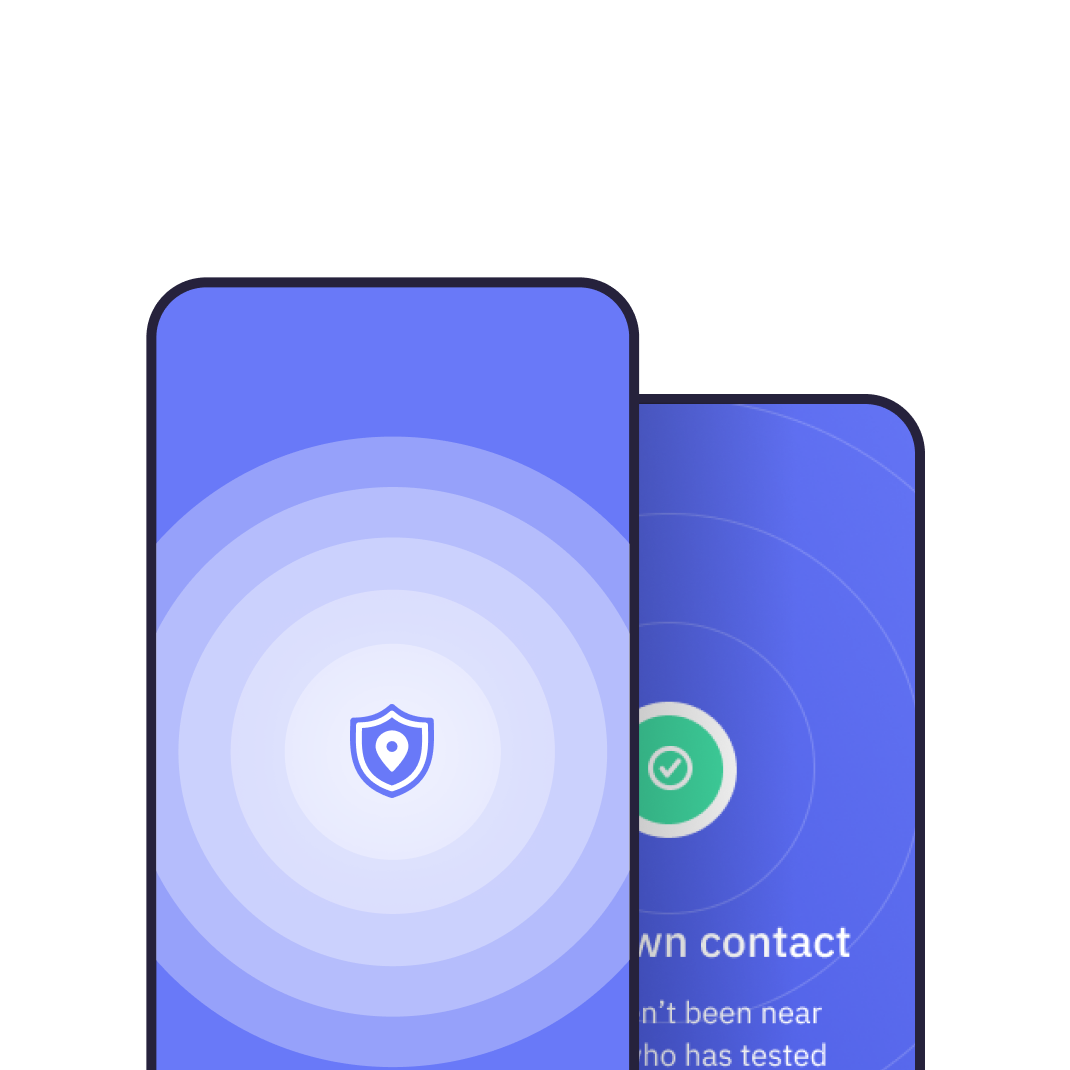
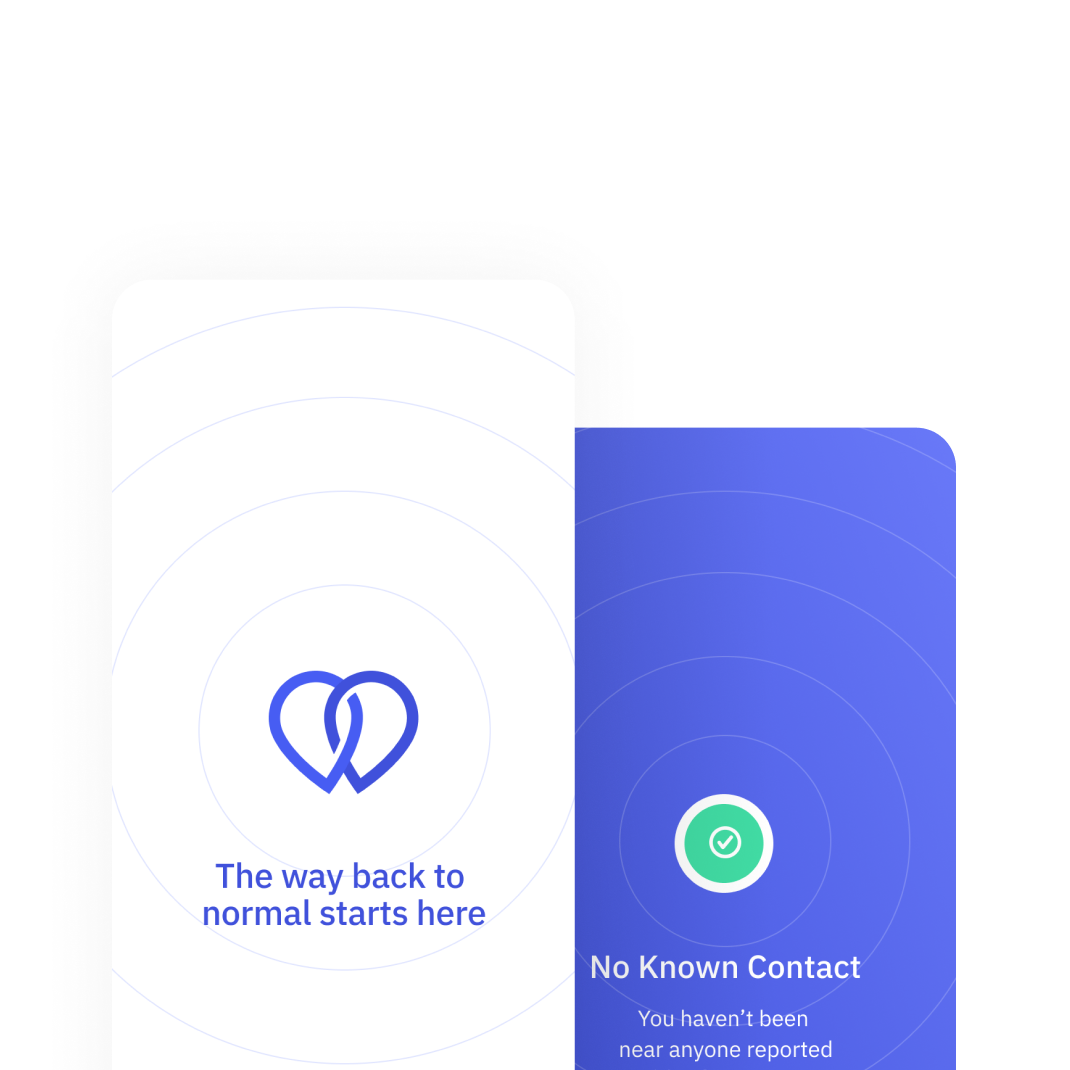
style, add real content

diff --git a/src/scss/sections/_why-safe-paths.scss b/src/scss/sections/_why-safe-paths.scss
@@ -19,7 +19,7 @@ $fade-size-lg: $sp-xxl * 1.5;
     &:not(:last-child) {
       &::before {
         @include absolute(50% x x 50%);
-        border-bottom: 1px solid $color-spot;
+        border-top: 2px solid $color-bg-dark;
         content: '';
         display: inline-block;
         width: 100%;
@@ -51,7 +51,7 @@ $fade-size-lg: $sp-xxl * 1.5;
 
 .wsp-list-item.wsp-list-item {
   @include padding($sp-lg x x);
-  background-color: $color-white;
+  background-color: $color-bg-light;
   border-radius: $br-sm;
   counter-increment: step;
   list-style: none;
@@ -68,14 +68,15 @@ $fade-size-lg: $sp-xxl * 1.5;
       @include absolute(100% x x 0);
       @include size(100%, $fade-size);
       background-image: linear-gradient(to bottom,
-      $color-white 10%,
-      transparentize($color-white, 1));
+      $color-bg-light 10%,
+      transparentize($color-bg-light, 1));
       content: '';
       display: block;
     }
   }
 
   @include mq($xl) {
+    @include padding(x $sp-lg);
     margin-bottom: $fade-size-lg;
 
     &::after {
@@ -98,6 +99,14 @@ $fade-size-lg: $sp-xxl * 1.5;
 
 .wps-list-item-content {
   @include padding($sp-lg);
+}
+
+.wsp-list-item-heading {
+  @include paragraph;
+}
+
+.wsp-list-item-deck {
+  font-size: $fs-base;
 }
 
 .wsp-screenshots {

diff --git a/src/scss/partials/_pill.scss b/src/scss/partials/_pill.scss
@@ -1,6 +1,8 @@
 .pill {
-  background-color: $color-spot;
+  background-image: $gradient-blue;
+  border-bottom: 1px solid $color-bg-light;
   border-radius: $br;
+  border-top: 1px solid $color-bg-dark;
   color: $color-bg;
 }
 
@@ -30,6 +32,7 @@
 
 .pill-side--deck {
   @include margin(0);
+  font-size: $fs-base;
 }
 
 .pill-icon {
@@ -38,7 +41,7 @@
 
   @include mq(0, $md-lg) {
     @include size(100%, 0);
-    border-top: 2px solid $color-white;
+    border-top: 2px solid $color-bg;
 
     &::after {
       @include absolute(0 x x 50%);
@@ -51,7 +54,7 @@
 
   @include mq($md-lg) {
     @include size(0, auto);
-    border-right: 2px solid $color-white;
+    border-right: 2px solid $color-bg;
 
     &::before {
       @include relative(50% x x 50%);
@@ -76,9 +79,10 @@
 
   &::before {
     @include size($sp-xl);
-    background-color: $color-white;
+    background-color: $color-bg;
     border-radius: $br;
-    box-shadow: 0 0 0 $sp-base transparentize($color-white, 0.9);
+    box-shadow: -5px -5px 30px transparentize($color-white, 0.75),
+      5px 5px 30px transparentize(darken($color-spot, 25%), 0.5);
     content: '';
   }
 }

diff --git a/src/scss/variables.scss b/src/scss/variables.scss
@@ -5,7 +5,14 @@ $color-highlight: #ff5656;
 $color-bg: #f0f0f0;
 $color-white: #ffffff;
 $color-border: $color-base;
-$color-bg-light: mix($color-spot, $color-bg, $weight: 5%);
+$color-bg-blue: mix($color-spot, $color-bg, $weight: 5%);
+$color-bg-light: lighten($color-bg, 3%);
+$color-bg-dark: darken($color-bg, 6%);
+$box-shadow-light: transparentize($color-white, 0.25);
+$box-shadow-dark: transparentize(darken($color-bg, 20%), 0.85);
+
+// Gradients
+$gradient-blue: linear-gradient(-45deg, darken($color-spot, 2%), lighten($color-spot, 2%));
 
 // Typefaces
 $sans: Inter, sans-serif;
@@ -32,7 +39,7 @@ $fw-bold: 500;
 
 // Letter spacing
 $ls-tight: -0.045em;
-$ls-loose: 0.05em;
+$ls-loose: 0.07em;
 
 // Spacing
 $sp-base: 10px;
@@ -56,6 +63,9 @@ $border: 1px solid darken($color-bg, 10%);
 // Border radius
 $br: 999rem;
 $br-sm: 1.5rem;
+
+// Box shadow
+$box-shadow: -5px -5px 15px $box-shadow-light, 5px 5px 15px $box-shadow-dark;
 
 // Easings
 $outQuint: 0.3s cubic-bezier(0.22, 1, 0.36, 1);

diff --git a/src/pages/index.html b/src/pages/index.html
@@ -3,6 +3,7 @@ title: COVID SafePaths
 ---
 
 {% extends "@templates/layouts/base.twig" %}
+{% set callouts = site.data['callouts.yaml'] %}
 
 {% block header %}
   {% include '@templates/partials/header.twig' %}
@@ -12,8 +13,9 @@ title: COVID SafePaths
 <main>
   {% include '@templates/partials/topper.twig' %}
   <div class="home-body">
-    {% include '@templates/sections/section-callouts.twig' %}
-    {% include '@templates/sections/section-callouts.twig' with {'altLayout': true} %}
+    {% for callout in callouts %}
+      {% include '@templates/sections/section-callouts.twig' with {'altLayout': callout.altLayout} %}
+    {% endfor %}
     {% include '@templates/sections/section-how-it-works.twig' %}
     {% include '@templates/sections/section-better-together.twig' %}
     {% include '@templates/sections/section-why-safe-paths.twig' %}

diff --git a/src/scss/partials/_header.scss b/src/scss/partials/_header.scss
@@ -1,5 +1,6 @@
 .header {
-  background-color: $color-white;
+  background-color: $color-bg;
+  box-shadow: 0 5px 15px $box-shadow-dark;
   position: relative;
   z-index: 10;
 }
@@ -59,9 +60,11 @@
 
 .header-button-group {
   @include mq($sm, $md) {
-    bottom: $sp-md;
-    position: fixed;
-    width: calc(100% - (2 * #{$sp-md}));
+    @include fixed(x x 0 0);
+    @include padding($sp-md);
+    background-color: $color-bg;
+    box-shadow: 0 -5px 15px $box-shadow-light;
+    width: calc(100% - (#{$sp-md * 2}));
     z-index: 10;
   }
 

diff --git a/src/templates/partials/hiw-block.html b/src/templates/partials/hiw-block.html
@@ -1,9 +1,9 @@
 <div class="hiw-block">
   <div class="hiw-block-content">
-    <h3 class="hiw-block--heading">Save your location directly to your phone every 5 minutes</h3>
-    <p class="hiw-block--deck">Data is never shared and never leaves your personal device.</p>
+    <h3 class="hiw-block--heading">{{step.title}}</h3>
+    <p class="hiw-block--deck">{{step.deck}}</p>
   </div>
   <div class="hiw-block-art">
-    {% include '@templates/svgs/path-1.svg' %}
+    {% include step.illustration %}
   </div>
 </div>

diff --git a/src/scss/partials/_list.scss b/src/scss/partials/_list.scss
@@ -27,7 +27,7 @@
 
 .list-content {
   @include padding($sp-md);
-  background-color: $color-white;
+  background-color: $color-bg-light;
   border-radius: $br-sm;
   width: 100%;
 
@@ -47,8 +47,8 @@
 }
 
 .list--title {
-  @include paragraph;
-  color: $color-spot;
+  @include label;
+  font-weight: normal;
   margin-bottom: $sp-lg;
 }
 
@@ -56,6 +56,7 @@
   @include padding($sp-md x);
   @include margin(0);
   align-items: baseline;
+  color: $color-spot;
   display: flex;
 
   &:not(:last-child) {

diff --git a/src/scss/partials/_callout.scss b/src/scss/partials/_callout.scss
@@ -59,6 +59,10 @@
   @include absolute($sp-lg x x 50%);
   @include label;
   transform: translateX(-50%);
+
+  &-muted {
+    opacity: 0.5;
+  }
 }
 
 .callout--art {
@@ -74,6 +78,16 @@
   margin-bottom: $sp-base;
 }
 
+.callout--title-label {
+  @include label;
+  color: $color-spot;
+}
+
 .callout--deck {
   margin-bottom: $sp-lg;
+}
+
+.callout--button {
+  @include margin(x $grid-gutter / 2 $grid-gutter x);
+  display: inline-block;
 }

diff --git a/src/scss/sections/_better-together.scss b/src/scss/sections/_better-together.scss
@@ -1,6 +1,8 @@
 .bt-section {
-  background-color: $color-white;
+  background-color: $color-bg;
+  border: 1px solid transparentize($color-white, 0.75);
   border-radius: $br-sm;
+  box-shadow: inset -5px -5px 25px $color-white, inset 5px 5px 25px darken($color-bg, 8%);
 }
 
 .bt-section-content {
@@ -11,7 +13,7 @@
   }
 
   @include mq($lg) {
-    @include padding(x $sp-xxl $sp-xxl);
+    @include padding($sp-xxl);
   }
 }
 

diff --git a/src/scss/partials/_hiw-block.scss b/src/scss/partials/_hiw-block.scss
@@ -1,18 +1,12 @@
 .hiw-block {
-  background-color: $color-bg-light;
+  background-image: linear-gradient(-45deg, $color-bg-light, $color-bg-blue);
   border-radius: $br-sm;
   position: relative;
 }
 
 .hiw-block-content {
   @include padding($sp-lg);
-  @include mq($sm, $md) {
-    position: absolute;
-  }
-
-  @include mq($md-lg) {
-    position: absolute;
-  }
+  position: absolute;
 }
 
 .hiw-block-art {

diff --git a/src/scss/partials/_link-button.scss b/src/scss/partials/_link-button.scss
@@ -4,7 +4,7 @@
   background-color: $color-bg;
   background-image: none;
   border-radius: $br;
-  display: flex;
+  display: inline-flex;
   font-size: $fs-base;
   font-weight: $fw-bold;
   justify-content: center;
@@ -45,7 +45,7 @@
   color: $color-bg;
 
   svg {
-    @include margin(0 $sp-md 0 0);
+    @include margin(0 $sp-base 0 0);
     @include size($fs-sm);
   }
 }

diff --git a/src/js/main.js b/src/js/main.js
@@ -22,7 +22,7 @@ function setup() {
 
 function circ(x, y, rad, opacity) {
   ctx.beginPath();
-  ctx.strokeStyle = `rgba(200, 210, 250, ${opacity})`;
+  ctx.strokeStyle = `rgba(165, 175, 250, ${opacity})`;
   ctx.lineWidth = 45.5;
   ctx.arc(x, y, rad, 0, Math.PI * 2);
   ctx.stroke();
